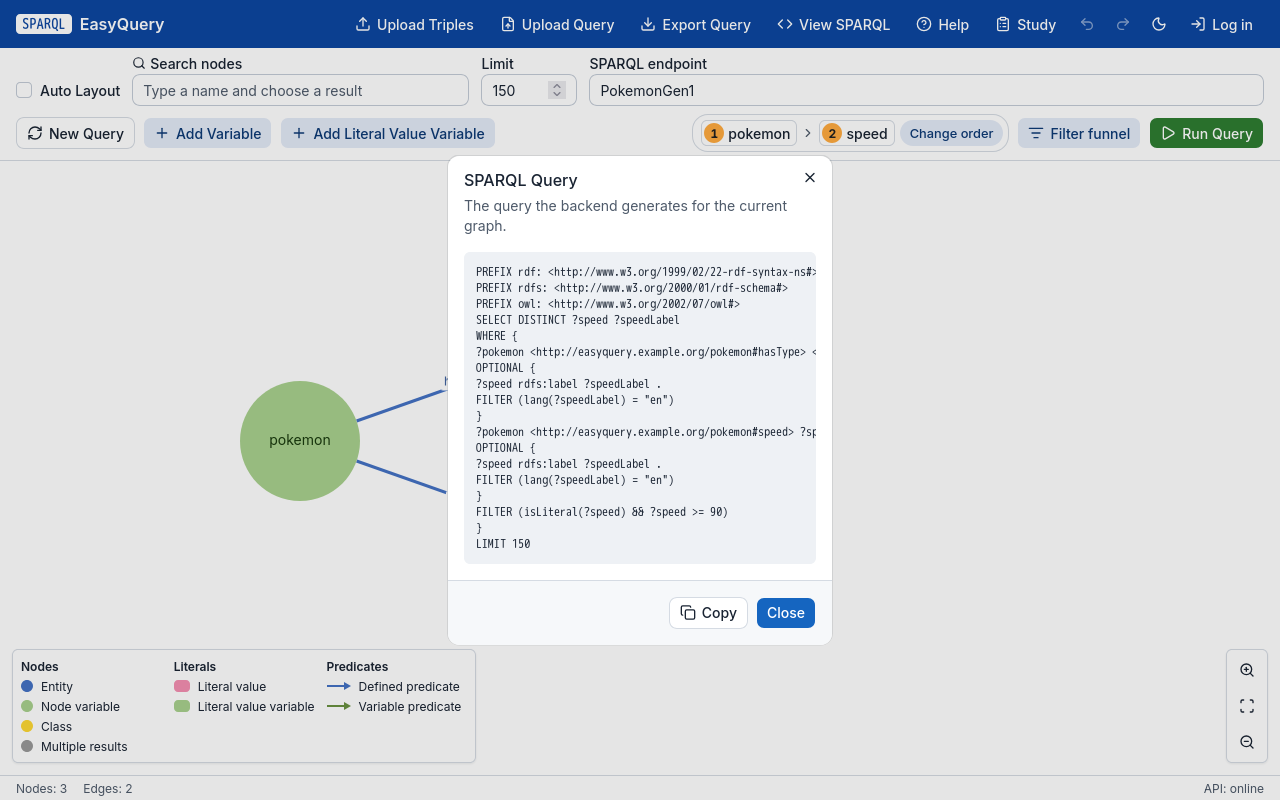
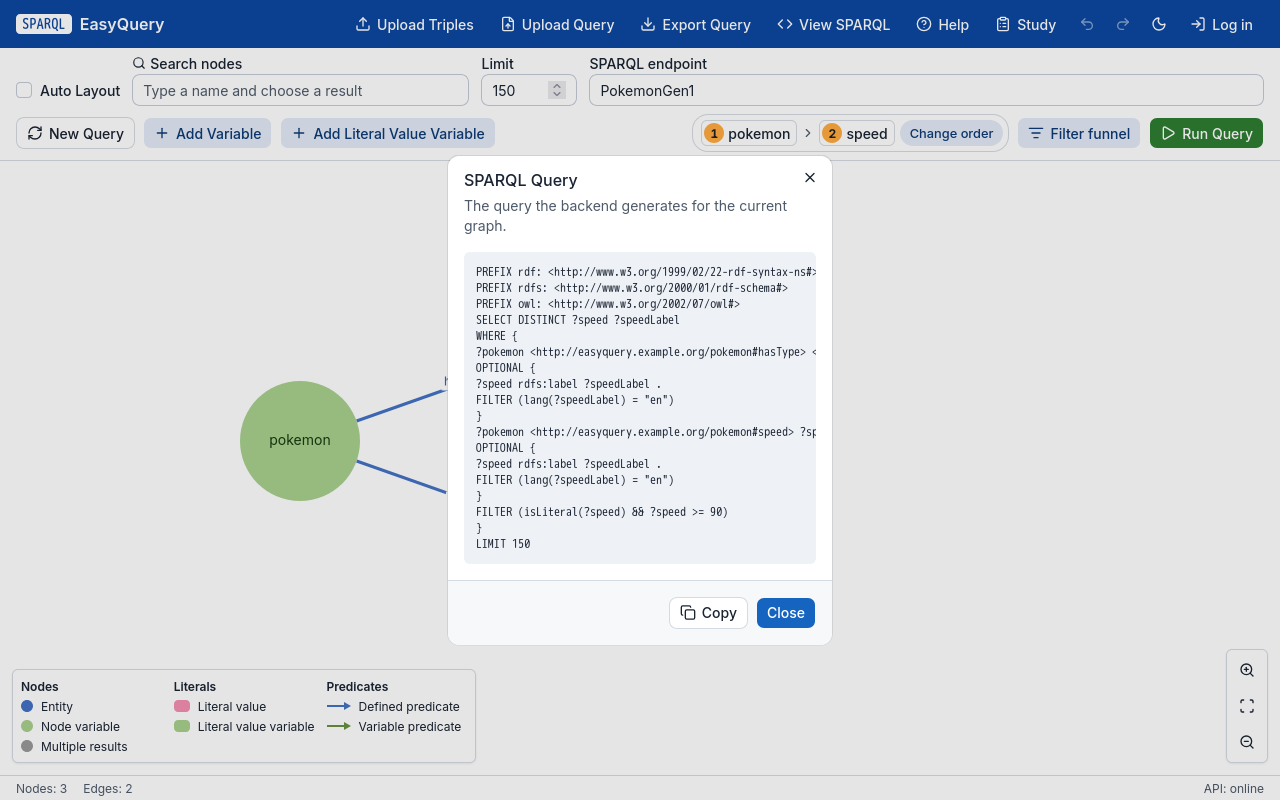
FE-062 hide the Class node kind from the graph legend and the help page

Changed region(s): [[0.125, 0.8125, 0.25, 0.9375], [0.25, 0.8125, 0.375, 0.9375], [0.0, 0.8125, 0.0938, 0.9375]]

diff --git a/frontend/src/routes/help/+page.svelte b/frontend/src/routes/help/+page.svelte
@@ -40,11 +40,6 @@
 			text: 'An unknown entity the query looks for. Add one with Add Variable.'
 		},
 		{
-			swatch: 'rounded-full bg-node-class',
-			name: 'Class',
-			text: 'A kind of thing, such as Pokémon. Use Explore values on it to see its members.'
-		},
-		{
 			swatch: 'rounded-full bg-node-many',
 			name: 'Multiple results',
 			text: 'A node that stands for more than one result, drawn grey.'

diff --git a/frontend/src/lib/features/editor/graph-overlays.svelte b/frontend/src/lib/features/editor/graph-overlays.svelte
@@ -35,9 +35,6 @@
 			><span class="size-3 shrink-0 rounded-full bg-node-variable"></span>Node variable</span
 		>
 		<span class="flex items-center gap-2"
-			><span class="size-3 shrink-0 rounded-full bg-node-class"></span>Class</span
-		>
-		<span class="flex items-center gap-2"
 			><span class="size-3 shrink-0 rounded-full bg-node-many"></span>Multiple results</span
 		>
 	</div>

diff --git a/tcc/90 - Tasks/items/FE-062-hide-class-from-legend-and-help.md b/tcc/90 - Tasks/items/FE-062-hide-class-from-legend-and-help.md
@@ -1,0 +1,43 @@
+---
+id: FE-062
+title: Hide the Class node kind from the graph legend and the help page
+status: DONE
+priority: P2
+type: frontend
+depends_on: []
+human_gate: false
+created: 2026-10-28
+updated: 2026-10-28
+---
+# Hide the Class node kind from the graph legend and the help page
+
+## Objective
+
+User decision (2026-10-28): participants do not use classes in the study
+tests, so the editor's graph legend (`graph-overlays.svelte`, Nodes column)
+and the help page's Node kinds list (`routes/help/+page.svelte`) no longer
+show Class. Skills: `tcc-frontend`, `tcc-style`.
+
+## Scope and acceptance
+
+- The legend's Nodes column shows Entity, Node variable and Multiple
+  results; the help page's Node kinds list has no Class entry.
+- Class nodes keep working: a query or saved file that yields one still
+  renders it with its colour and actions. Tokens, the `/styleguide` and the
+  domain are unchanged.
+
+## Validation
+
+- The new frontend gate; `test:screens` refreshed only for the editor and
+  help screens, after checking the only change is the missing Class line.
+
+## Conclusion
+
+Done 2026-10-28. The Class line is gone from the legend's Nodes column and
+the Class entry from the help page's Node kinds; class nodes, tokens and
+`/styleguide` are untouched. Screens: the editor, study task and new admin
+task goldens differ only in the legend box, the help goldens in the Node
+kinds list and the six embedded help images; those images
+(`static/help-images/`, `help:screens`) differ only inside the legend.
+Validation: `test:screens` 22 passed; `editor.e2e.ts` and `visual.e2e.ts`
+24 passed; the new frontend gate.

diff --git a/tcc/90 - Tasks/TASKS.md b/tcc/90 - Tasks/TASKS.md
@@ -167,6 +167,7 @@ Ordered by dependencies, then priority among selection candidates. See [worker r
 | FE-059 | DONE | P1 | frontend | [Name value nodes "Literal value" and "Literal value variable" and say "Multiple results"](<items/FE-059-literal-value-terminology.md>) |
 | FE-060 | DONE | P1 | frontend | [Zoom the graph at a comfortable speed with the mouse wheel and trackpad](<items/FE-060-wheel-zoom-speed.md>) |
 | FE-061 | DONE | P1 | frontend | [Link the editor to the study and give the task page an obvious way back to the task list](<items/FE-061-study-navigation.md>) |
+| FE-062 | DONE | P2 | frontend | [Hide the Class node kind from the graph legend and the help page](<items/FE-062-hide-class-from-legend-and-help.md>) |
 | BE-004 | DONE | P1 | fullstack | [Make MAX and MIN keep every entity with the extreme value, capped by a configurable limit](<items/BE-004-max-min-all-ties.md>) |
 | INV-001 | DONE | P1 | investigation | [Investigate Ktor HTTP-client and runtime resource lifecycle](<items/INV-001-runtime-resource-lifecycle.md>) |
 | LEARN-001 | REVIEW | P1 | learning | [Learn the Linux shell and networking needed to debug a web app](<items/LEARN-001-linux-shell-networking.md>) |
